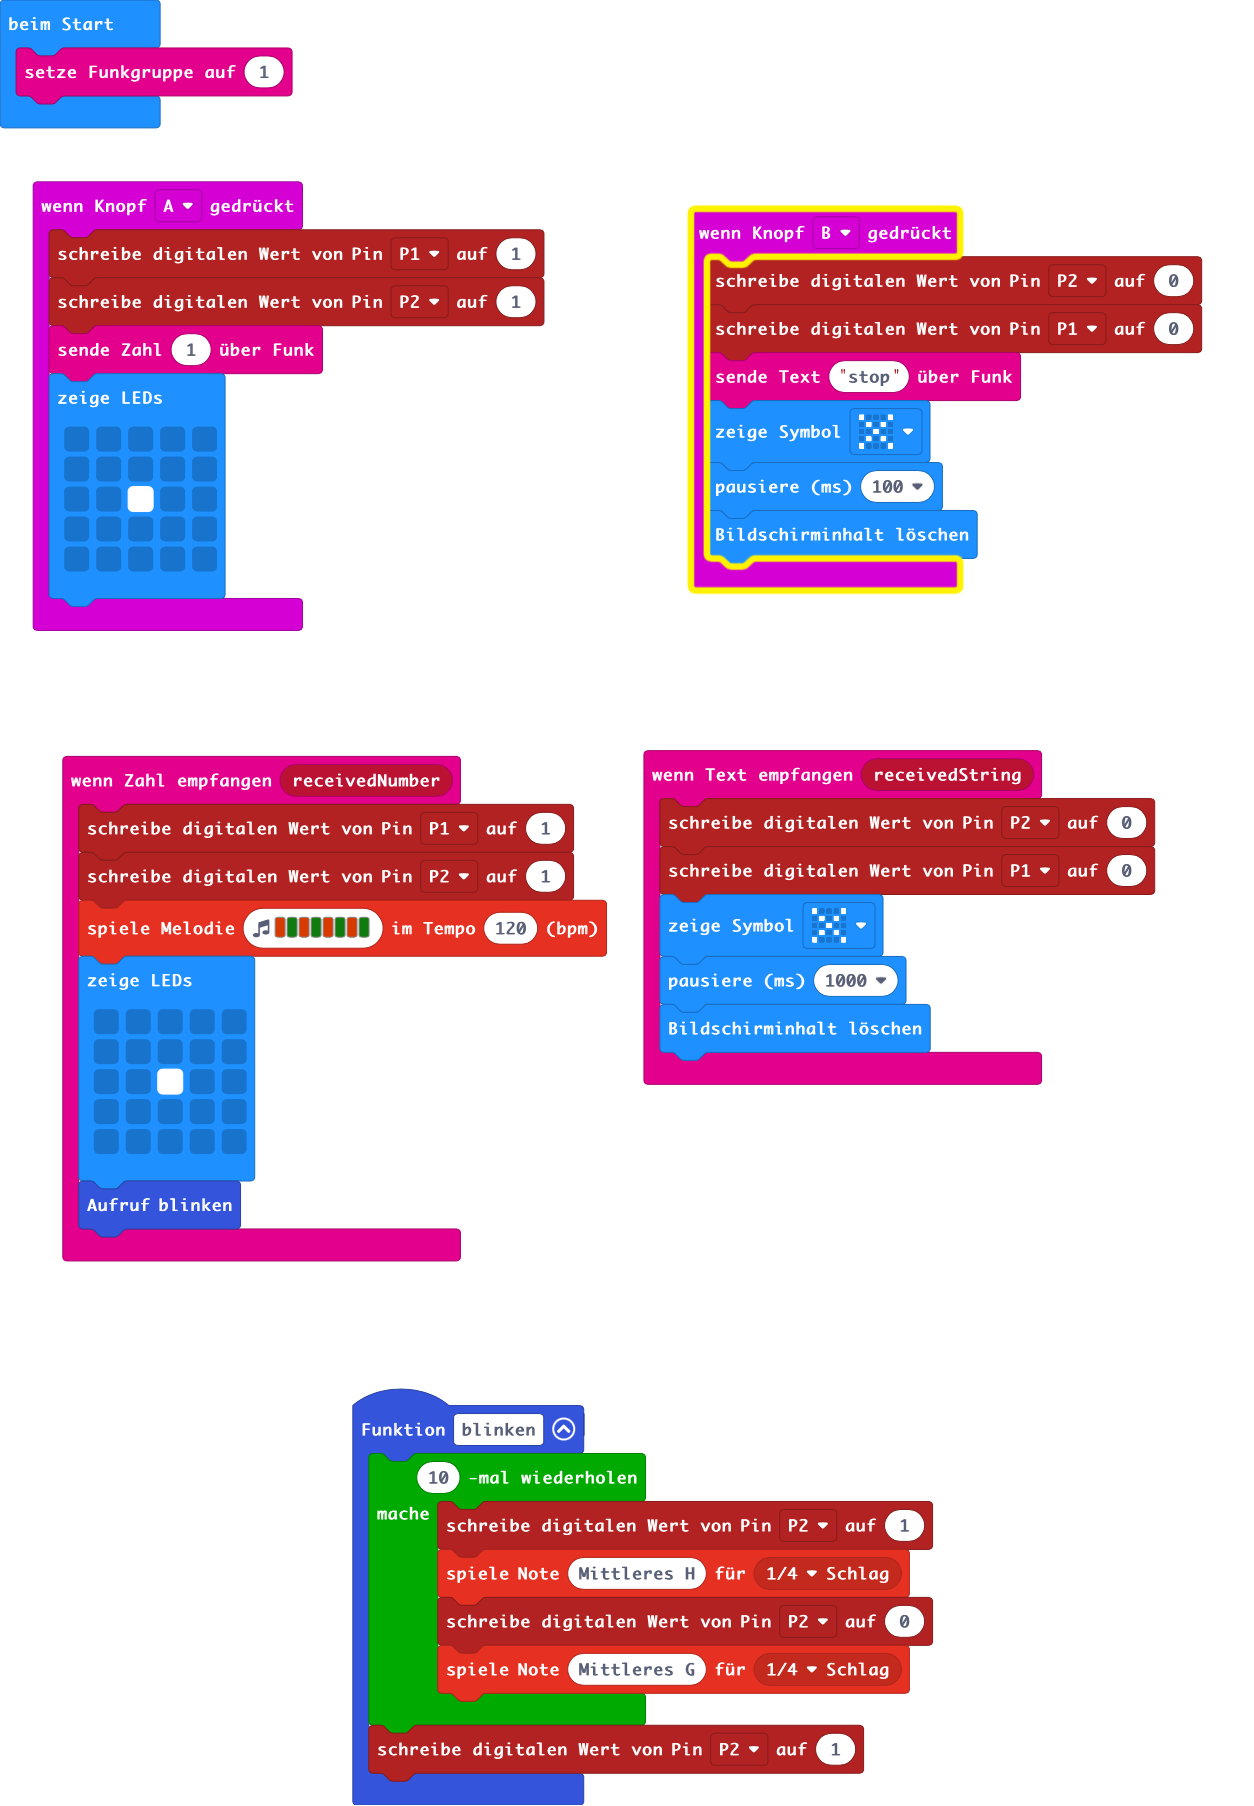
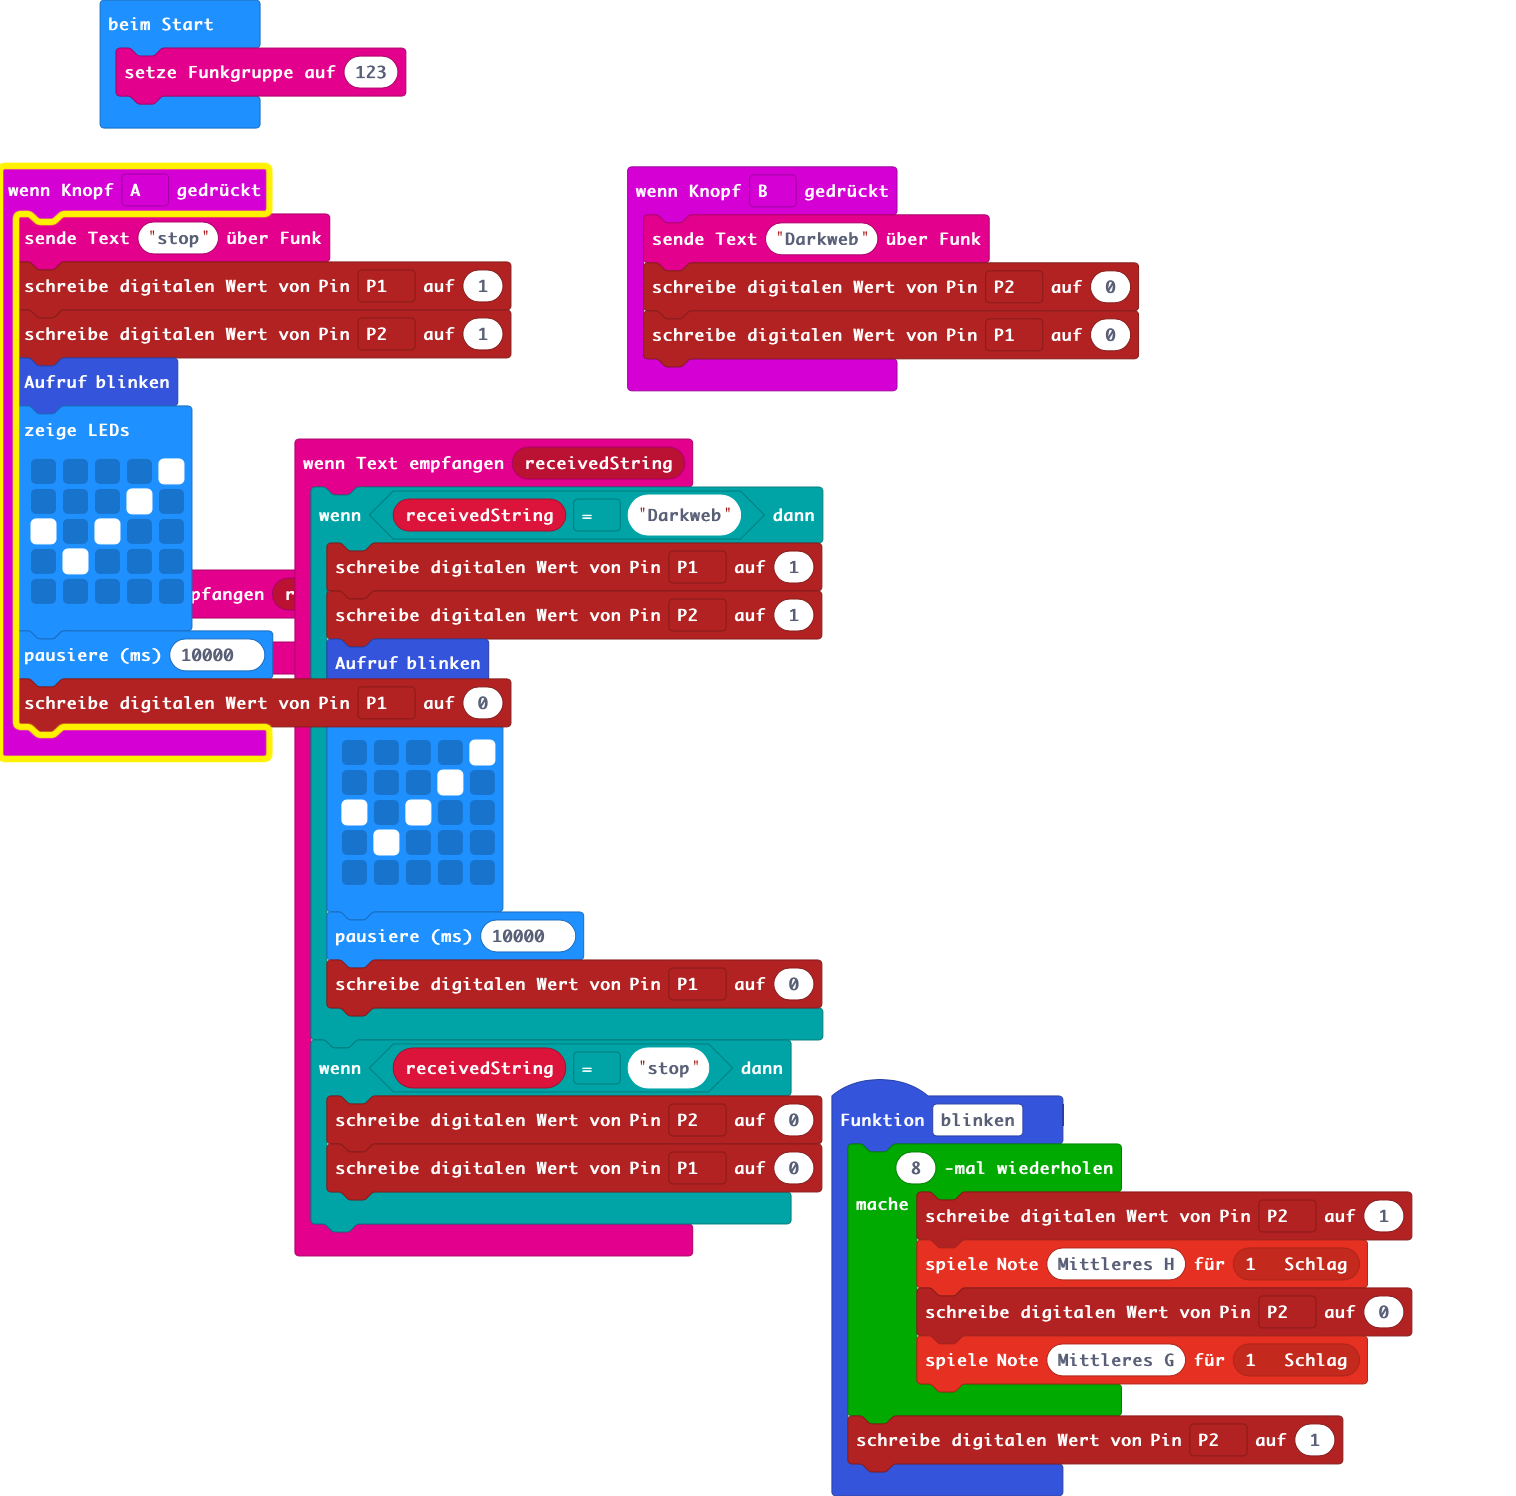
Aktualisiere pxt.json, main.blocks, main.ts

diff --git a/main.ts b/main.ts
@@ -1,50 +1,53 @@
 radio.onReceivedNumber(function (receivedNumber) {
-    pins.digitalWritePin(DigitalPin.P1, 1)
-    pins.digitalWritePin(DigitalPin.P2, 1)
-    music.playMelody("B G B G B G B G ", 120)
-    basic.showLeds(`
-        . . . . .
-        . . . . .
-        . . # . .
-        . . . . .
-        . . . . .
-        `)
-    blinken()
+	
 })
 input.onButtonPressed(Button.A, function () {
+    radio.sendString("stop")
     pins.digitalWritePin(DigitalPin.P1, 1)
     pins.digitalWritePin(DigitalPin.P2, 1)
-    radio.sendNumber(1)
+    blinken()
     basic.showLeds(`
-        . . . . .
-        . . . . .
-        . . # . .
-        . . . . .
+        . . . . #
+        . . . # .
+        # . # . .
+        . # . . .
         . . . . .
         `)
+    basic.pause(10000)
+    pins.digitalWritePin(DigitalPin.P1, 0)
 })
 radio.onReceivedString(function (receivedString) {
-    pins.digitalWritePin(DigitalPin.P2, 0)
-    pins.digitalWritePin(DigitalPin.P1, 0)
-    basic.showIcon(IconNames.No)
-    basic.pause(1000)
-    basic.clearScreen()
+    if (receivedString == "Darkweb") {
+        pins.digitalWritePin(DigitalPin.P1, 1)
+        pins.digitalWritePin(DigitalPin.P2, 1)
+        blinken()
+        basic.showLeds(`
+            . . . . #
+            . . . # .
+            # . # . .
+            . # . . .
+            . . . . .
+            `)
+        basic.pause(10000)
+        pins.digitalWritePin(DigitalPin.P1, 0)
+    }
+    if (receivedString == "stop") {
+        pins.digitalWritePin(DigitalPin.P2, 0)
+        pins.digitalWritePin(DigitalPin.P1, 0)
+    }
 })
 input.onButtonPressed(Button.B, function () {
+    radio.sendString("Darkweb")
     pins.digitalWritePin(DigitalPin.P2, 0)
     pins.digitalWritePin(DigitalPin.P1, 0)
-    radio.sendString("stop")
-    basic.showIcon(IconNames.No)
-    basic.pause(100)
-    basic.clearScreen()
 })
 function blinken () {
-    for (let index = 0; index < 10; index++) {
+    for (let index = 0; index < 8; index++) {
         pins.digitalWritePin(DigitalPin.P2, 1)
-        music.playTone(494, music.beat(BeatFraction.Quarter))
+        music.playTone(494, music.beat(BeatFraction.Whole))
         pins.digitalWritePin(DigitalPin.P2, 0)
-        music.playTone(392, music.beat(BeatFraction.Quarter))
+        music.playTone(392, music.beat(BeatFraction.Whole))
     }
     pins.digitalWritePin(DigitalPin.P2, 1)
 }
-radio.setGroup(1)
+radio.setGroup(123)
